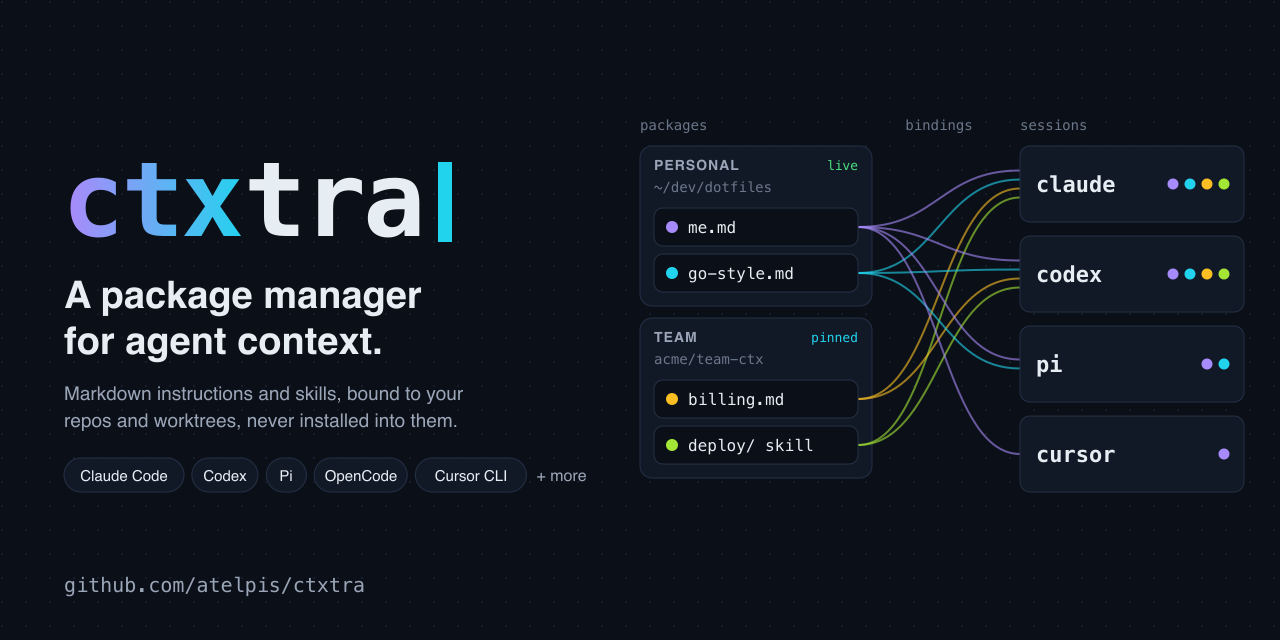
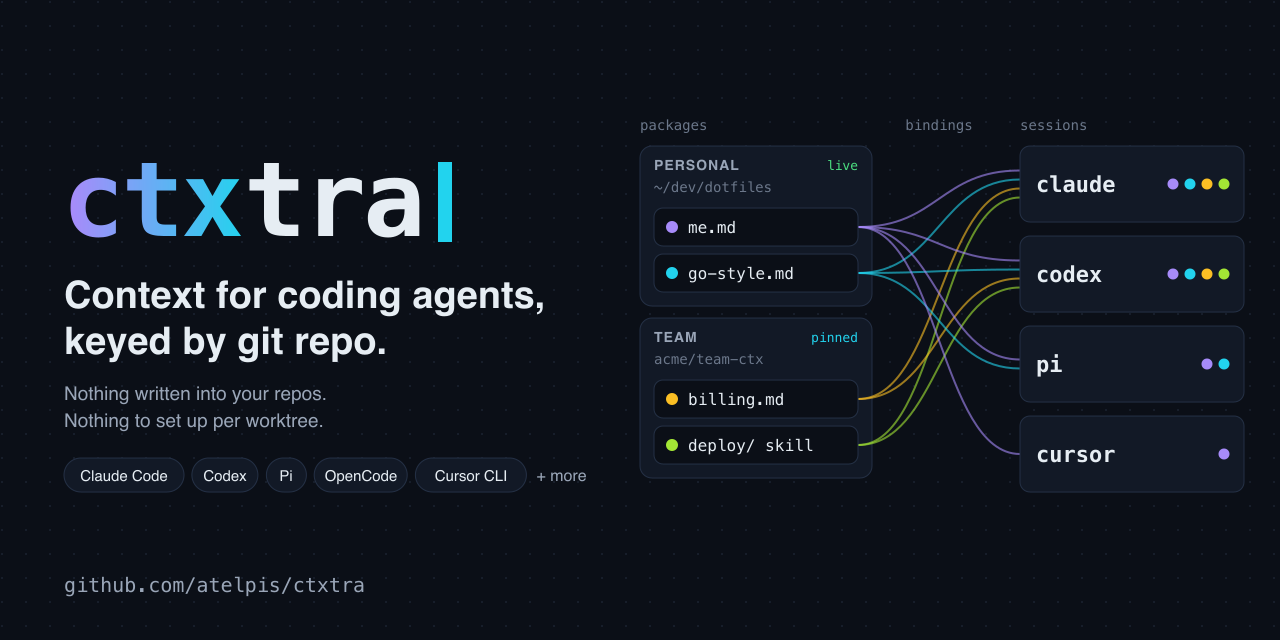
Sharpen README hook

Changed region(s): [[0.0312, 0.4375, 0.4375, 0.5625], [0.0312, 0.5938, 0.375, 0.6875]]

diff --git a/docs/assets/gen.py b/docs/assets/gen.py
@@ -84,10 +84,10 @@ def hero_body(c, w, h, top=0, animate=True, paths=True):
     if animate:
         caret += '<animate attributeName="opacity" values="1;1;0;0" keyTimes="0;0.5;0.5;1" dur="1.1s" repeatCount="indefinite"/>'
     b.append(caret + "</rect>")
-    b.append(f'<text x="64" y="{t+212}" font-size="38" font-weight="700" fill="{c["TEXT"]}">A package manager</text>')
-    b.append(f'<text x="64" y="{t+258}" font-size="38" font-weight="700" fill="{c["TEXT"]}">for agent context.</text>')
-    b.append(f'<text x="64" y="{t+304}" font-size="19" fill="{c["MUTED"]}">Markdown instructions and skills, bound to your</text>')
-    b.append(f'<text x="64" y="{t+331}" font-size="19" fill="{c["MUTED"]}">repos and worktrees, never installed into them.</text>')
+    b.append(f'<text x="64" y="{t+212}" font-size="38" font-weight="700" fill="{c["TEXT"]}">Context for coding agents,</text>')
+    b.append(f'<text x="64" y="{t+258}" font-size="38" font-weight="700" fill="{c["TEXT"]}">keyed by git repo.</text>')
+    b.append(f'<text x="64" y="{t+304}" font-size="19" fill="{c["MUTED"]}">Nothing written into your repos.</text>')
+    b.append(f'<text x="64" y="{t+331}" font-size="19" fill="{c["MUTED"]}">Nothing to set up per worktree.</text>')
     x = 64
     for name in ["Claude Code", "Codex", "Pi", "OpenCode", "Cursor CLI"]:
         cw = 22 + len(name) * 8.9
@@ -151,7 +151,7 @@ def hero(theme):
     c = THEMES[theme]
     w, h = 1280, 432
     write(f"hero-{theme}.svg", frame(c, w, h, grid=True) + hero_body(c, w, h), w, h,
-          "ctxtra: a package manager for agent context. Markdown instructions and skills, bound to your repos and worktrees, never installed into them")
+          "ctxtra: context for coding agents, keyed by git repo. Nothing written into your repos, nothing to set up per worktree")
 
 
 def social():

diff --git a/README.md b/README.md
@@ -1,7 +1,7 @@
 <p align="center">
   <picture>
     <source media="(prefers-color-scheme: dark)" srcset="docs/assets/hero-dark.svg">
-    <img src="docs/assets/hero-light.svg" alt="ctxtra: a package manager for agent context. Markdown instructions and skills, bound to your repos and worktrees, never installed into them" width="100%">
+    <img src="docs/assets/hero-light.svg" alt="ctxtra: context for coding agents, keyed by git repo. Nothing written into your repos, nothing to set up per worktree" width="100%">
   </picture>
 </p>
 
@@ -12,14 +12,22 @@
   <img src="https://img.shields.io/badge/status-preview-F59E0B" alt="Status: preview">
 </p>
 
-Bind Markdown instructions and skills to repos and worktrees across coding agents. ctxtra loads them into
-matching sessions without writing files into your projects. Keep personal packages in your dotfiles and shared
-packages in their own git repos: your edits reach the next session, and shared packages stay at the commit you
-accepted. ctxtra is not a generator, so there is nothing to generate, link or `.gitignore`.
+**Not another CLAUDE.md generator.** Bind instructions and skills to `github.com/acme/billing` once. Every
+clone and every worktree gets them at runtime, in every supported agent, including the worktree your agent
+created ten seconds ago.
+
+`0 files written to your repo` · `0 setup steps per worktree` · `0 symlinks`
 
 <p align="center">
   <img src="docs/assets/demo.svg" alt="Four agent sessions in four folders get four different sets of files from one config" width="100%">
 </p>
+
+## Yes, it's prompt injection
+
+ctxtra adds text to your agent's context. That is the whole point. You choose the instructions and skills,
+and which sessions get them. Team packages stay at the commit you accepted, and `ctxtra sync` shows changes
+and warns when a binding widens its scope. `ctxtra show DIR` prints the rendered instructions. You control
+what ctxtra adds and where; ctxtra doesn't make that content safe.
 
 ## Why ctxtra
 
@@ -41,10 +49,6 @@ accepted. ctxtra is not a generator, so there is nothing to generate, link or `.
 - **Remote packages, pinned and reviewed.** A team's package is served from the commit you accepted. `ctxtra sync`
   shows the diff and warns when a binding widens its scope, and sessions never fetch. Bindings in a pinned
   package can reference only that package's own files, never `~/.ssh` or anything else on your disk.
-- **Prompt injection you control.** Choose the instructions and skills, select the sessions that receive
-  them, and review shared updates before you accept a new commit. `ctxtra show DIR` prints the rendered
-  instructions, and `ctxtra explain DIR` explains the selection. The repo's own `AGENTS.md` and your
-  user-level files keep loading as before.
 
 ## Quick start
 
